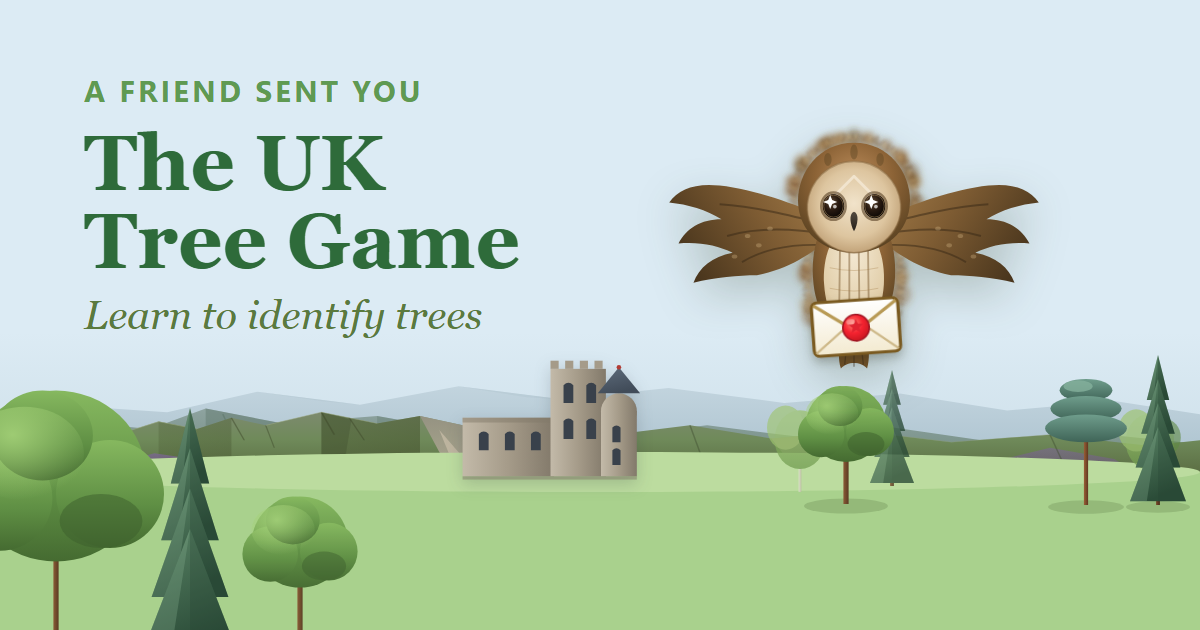
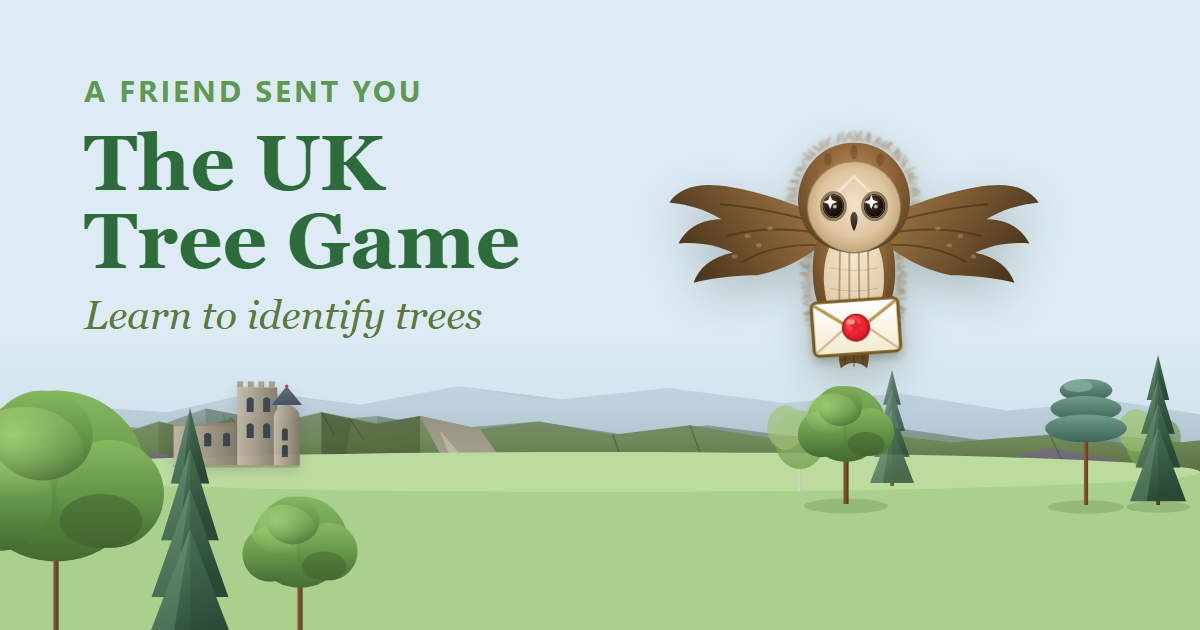
v146: GIF owl fluff -> fine fuzzy LINES (no dense halo/tufts); castle smaller + on the left; envelope drops bottom-right in open grass. OG matches.

diff --git a/owl-fix.html b/owl-fix.html
@@ -7,9 +7,9 @@ h1{font-size:20px;color:#2e6b3a;margin:20px 16px 4px}p{font-size:14px;color:#6f6
 .z{transform:scale(4.6);transform-origin:center;display:inline-block;margin:34px 60px}
 /* old owl on this page = sleepy (as it appears live at rest on the button) */
 .slp .alert-extras{opacity:0}.slp .sleepy-lids{opacity:1}</style></head><body>
-<h1>🦉 Owl fixes — v145 (latest)</h1>
+<h1>🦉 Owl fixes — v146 (latest)</h1>
 <p>The <b>flying owl in the GIF</b> below now has <b>dense soft down all over</b> (head + body), not a sparse head ruff — and the GIF is 256-colour so it survives. Watch it loop:</p>
-<div style="max-width:480px;margin:0 auto 6px;padding:0 16px"><img src="owl-fly.gif?v=145" style="width:100%;border-radius:14px;border:1px solid #e0d6c0;display:block"></div>
+<div style="max-width:480px;margin:0 auto 6px;padding:0 16px"><img src="owl-fly.gif?v=146" style="width:100%;border-radius:14px;border:1px solid #e0d6c0;display:block"></div>
 <p style="margin-bottom:18px"><b>Results-page button owl</b> (below): awake, open eyes with ✦ sparkle, soft fluff — at real 46px size.</p>
 <div class="row">
   <div class="card"><div class="z"><span class="slp" style="position:relative;display:inline-block;width:46px;height:46px;border-radius:50%;overflow:hidden;background:radial-gradient(circle at 38% 32%,#8FC0E8,#3D72A8 60%,#285685);box-shadow:0 2px 5px rgba(20,50,90,.45), inset 0 1px 2px rgba(255,255,255,.55), inset 0 -3px 6px rgba(15,45,85,.4)"><span style="position:absolute;inset:0;display:flex;align-items:center;justify-content:center"><svg style="height:44px;width:auto;display:block" class="so-owl" viewBox="64 34 172 316" xmlns="http://www.w3.org/2000/svg"><defs><radialGradient id="fA_body" cx="50%" cy="36%" r="72%"><stop offset="0%" stop-color="#b48758"/><stop offset="45%" stop-color="#8c6336"/><stop offset="100%" stop-color="#574020"/></radialGradient><radialGradient id="fA_head" cx="50%" cy="38%" r="64%"><stop offset="0%" stop-color="#bb8c5b"/><stop offset="60%" stop-color="#8f693a"/><stop offset="100%" stop-color="#604726"/></radialGradient><radialGradient id="fA_disc" cx="50%" cy="46%" r="62%"><stop offset="0%" stop-color="#f1e3ca"/><stop offset="60%" stop-color="#ddc59f"/><stop offset="100%" stop-color="#b59367"/></radialGradient><radialGradient id="fA_belly" cx="50%" cy="26%" r="84%"><stop offset="0%" stop-color="#f4e9d3"/><stop offset="68%" stop-color="#e2cfab"/><stop offset="100%" stop-color="#c0a578"/></radialGradient><radialGradient id="fA_eye" cx="40%" cy="34%" r="68%"><stop offset="0%" stop-color="#604a34"/><stop offset="50%" stop-color="#281a11"/><stop offset="100%" stop-color="#0a0604"/></radialGradient><linearGradient id="fA_beak" x1="0" y1="0" x2="0" y2="1"><stop offset="0%" stop-color="#544a3f"/><stop offset="100%" stop-color="#241f19"/></linearGradient><radialGradient id="fA_wing" cx="40%" cy="30%" r="80%"><stop offset="0%" stop-color="#8a6538"/><stop offset="100%" stop-color="#4d381f"/></radialGradient><radialGradient id="fA_halo" cx="50%" cy="42%" r="60%"><stop offset="0%" stop-color="#7a5a32" stop-opacity="0"/><stop offset="72%" stop-color="#7a5a32" stop-opacity="0"/><stop offset="90%" stop-color="#8a663a" stop-opacity="0.55"/><stop offset="100%" stop-color="#6b4d28" stop-opacity="0.9"/></radialGradient><filter id="fA_soft" x="-20%" y="-20%" width="140%" height="140%"><feGaussianBlur stdDeviation="2.4"/></filter><filter id="fA_soft2" x="-25%" y="-25%" width="150%" height="150%"><feGaussianBlur stdDeviation="3.6"/></filter></defs>
@@ -201,7 +201,7 @@ h1{font-size:20px;color:#2e6b3a;margin:20px 16px 4px}p{font-size:14px;color:#6f6
 <!-- feet -->
 <g><path d="M128 314 C128 326 132 332 137 332 C142 332 142 326 140 314 Z" fill="#cdb083"/><path d="M160 314 C160 326 164 332 169 332 C174 332 172 326 172 314 Z" fill="#cdb083"/><g stroke="#352819" stroke-width="2.6" stroke-linecap="round"><path d="M133 332 l-5 7 M136 333 l0 8 M139 332 l5 7"/><path d="M165 332 l-5 7 M168 333 l0 8 M171 332 l5 7"/></g></g>
 </svg>
-</span><span style="position:absolute;inset:3px;border-radius:50%;border:1px dashed rgba(232,244,255,.6)"></span></span></div><div class="lab">AFTER (v145)</div><div class="sub">awake · ✦ sparkle · soft fluff</div></div>
+</span><span style="position:absolute;inset:3px;border-radius:50%;border:1px dashed rgba(232,244,255,.6)"></span></span></div><div class="lab">AFTER (v146)</div><div class="sub">awake · ✦ sparkle · soft fluff</div></div>
 </div>
 <div class="row">
   <div class="card"><svg style="height:230px;width:auto;display:block" class="so-owl" viewBox="64 34 172 316" xmlns="http://www.w3.org/2000/svg"><defs><radialGradient id="fA_body" cx="50%" cy="36%" r="72%"><stop offset="0%" stop-color="#b48758"/><stop offset="45%" stop-color="#8c6336"/><stop offset="100%" stop-color="#574020"/></radialGradient><radialGradient id="fA_head" cx="50%" cy="38%" r="64%"><stop offset="0%" stop-color="#bb8c5b"/><stop offset="60%" stop-color="#8f693a"/><stop offset="100%" stop-color="#604726"/></radialGradient><radialGradient id="fA_disc" cx="50%" cy="46%" r="62%"><stop offset="0%" stop-color="#f1e3ca"/><stop offset="60%" stop-color="#ddc59f"/><stop offset="100%" stop-color="#b59367"/></radialGradient><radialGradient id="fA_belly" cx="50%" cy="26%" r="84%"><stop offset="0%" stop-color="#f4e9d3"/><stop offset="68%" stop-color="#e2cfab"/><stop offset="100%" stop-color="#c0a578"/></radialGradient><radialGradient id="fA_eye" cx="40%" cy="34%" r="68%"><stop offset="0%" stop-color="#604a34"/><stop offset="50%" stop-color="#281a11"/><stop offset="100%" stop-color="#0a0604"/></radialGradient><linearGradient id="fA_beak" x1="0" y1="0" x2="0" y2="1"><stop offset="0%" stop-color="#544a3f"/><stop offset="100%" stop-color="#241f19"/></linearGradient><radialGradient id="fA_wing" cx="40%" cy="30%" r="80%"><stop offset="0%" stop-color="#8a6538"/><stop offset="100%" stop-color="#4d381f"/></radialGradient><radialGradient id="fA_halo" cx="50%" cy="42%" r="60%"><stop offset="0%" stop-color="#7a5a32" stop-opacity="0"/><stop offset="72%" stop-color="#7a5a32" stop-opacity="0"/><stop offset="90%" stop-color="#8a663a" stop-opacity="0.55"/><stop offset="100%" stop-color="#6b4d28" stop-opacity="0.9"/></radialGradient><filter id="fA_soft" x="-20%" y="-20%" width="140%" height="140%"><feGaussianBlur stdDeviation="2.4"/></filter><filter id="fA_soft2" x="-25%" y="-25%" width="150%" height="150%"><feGaussianBlur stdDeviation="3.6"/></filter></defs>
@@ -395,5 +395,5 @@ h1{font-size:20px;color:#2e6b3a;margin:20px 16px 4px}p{font-size:14px;color:#6f6
 </svg>
 <div class="lab">AFTER · large</div></div>
 </div>
-<p style="padding-bottom:24px">Live as <b>v145</b>. On your phone: open <b>…/?fresh=1</b>, reopen, check Settings → About → v145.</p>
+<p style="padding-bottom:24px">Live as <b>v146</b>. On your phone: open <b>…/?fresh=1</b>, reopen, check Settings → About → v146.</p>
 </body></html>

diff --git a/sw.js b/sw.js
@@ -21,7 +21,7 @@
  * exactly the app (migrated from /jans-tree-game/ in v115). Registered HTTPS-only
  * from the HTML, so the file:// copy and the local http preview never touch it.
  */
-const VERSION = 145;
+const VERSION = 146;
 const CACHE = 'jtg-v' + VERSION;
 
 self.addEventListener('install', (event) => {